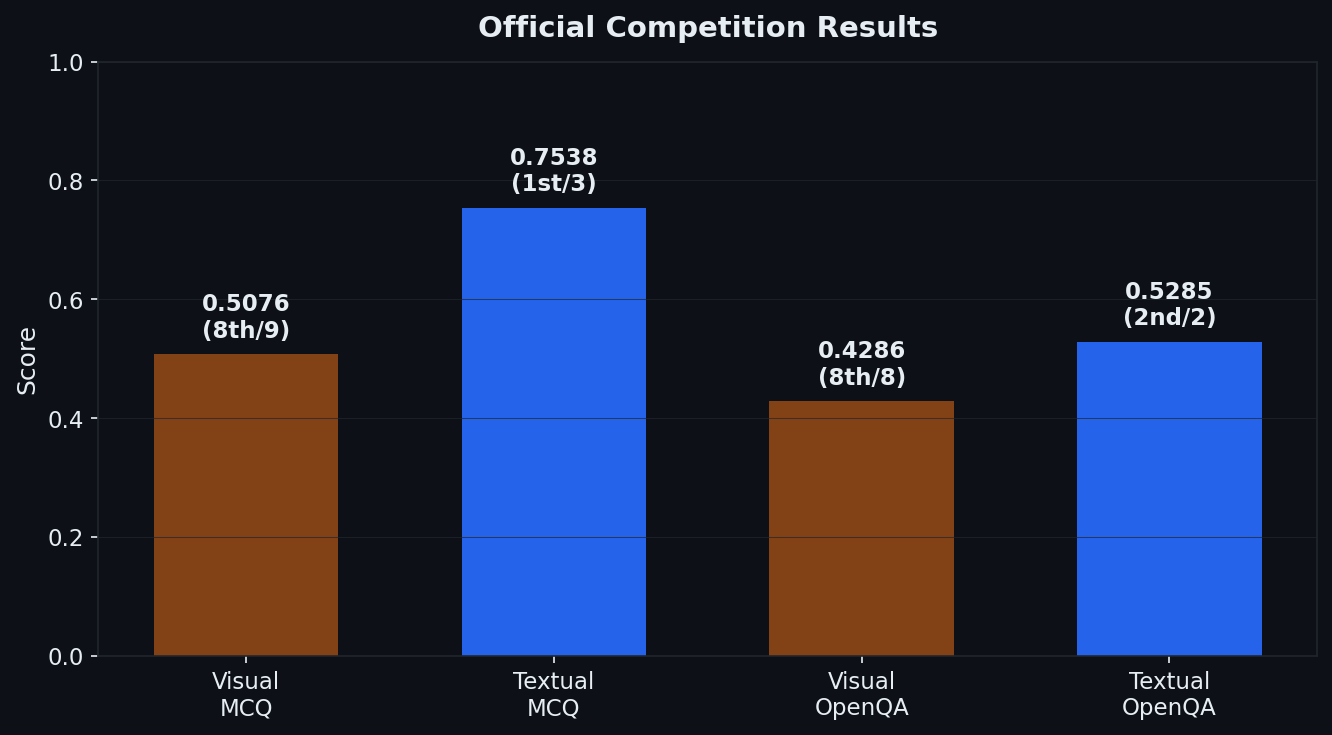
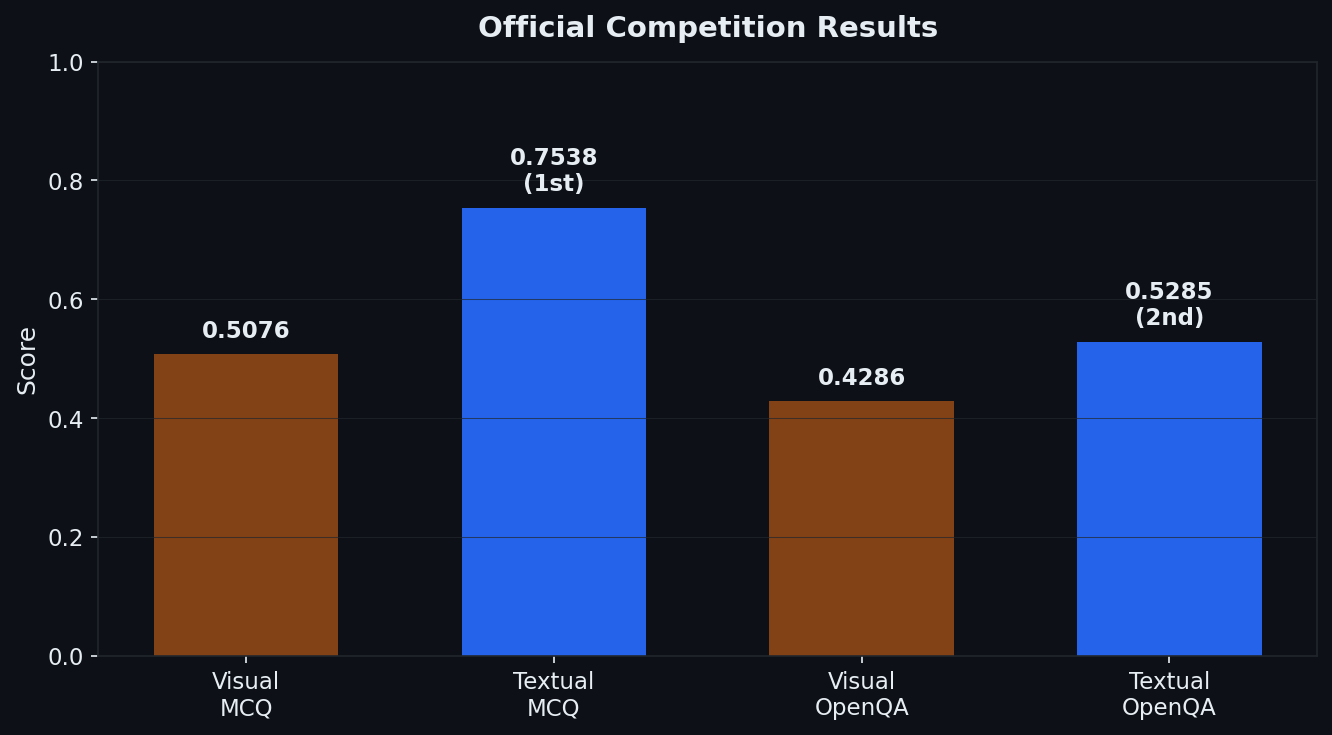
Remove field sizes from ranks, show only 1st/2nd

diff --git a/src/generate_figures.py b/src/generate_figures.py
@@ -66,7 +66,7 @@ print("Saved per_language_accuracy.png")
 # ── Figure 2: Track Results Overview ──────────────────────────
 tracks = ["Visual\nMCQ", "Textual\nMCQ", "Visual\nOpenQA", "Textual\nOpenQA"]
 scores = [0.5076, 0.7538, 0.4286, 0.5285]
-ranks = ["8th/9", "1st/3", "8th/8", "2nd/2"]
+labels = ["0.5076", "0.7538\n(1st)", "0.4286", "0.5285\n(2nd)"]
 colors = [ORANGE, BLUE, ORANGE, BLUE]
 
 fig, ax = plt.subplots(figsize=(9, 5))
@@ -74,9 +74,9 @@ bars = ax.bar(tracks, scores, color=colors, edgecolor="none", width=0.6)
 bars[0].set_alpha(0.5)
 bars[2].set_alpha(0.5)
 
-for bar, rank, score in zip(bars, ranks, scores):
+for bar, label in zip(bars, labels):
     ax.text(bar.get_x() + bar.get_width()/2, bar.get_height() + 0.02,
-            f"{score:.4f}\n({rank})", ha="center", va="bottom", color=TEXT,
+            label, ha="center", va="bottom", color=TEXT,
             fontsize=11, fontweight="bold")
 
 ax.set_ylabel("Score", fontsize=12)

diff --git a/README.md b/README.md
@@ -34,10 +34,10 @@
 
 | Track | Type | Metric | Score | Rank |
 |:------|:-----|:-------|:-----:|:----:|
-| **Textual MCQ** | Multiple-choice (text) | Accuracy | **0.7538** | **1st / 3** |
-| **Textual OpenQA** | Open-ended (text) | COMET | **0.5285** | **2nd / 2** |
-| Visual MCQ | Multiple-choice (visual) | Accuracy | 0.5076 | 8th / 9 |
-| Visual OpenQA | Open-ended (visual) | COMET | 0.4286 | 8th / 8 |
+| **Textual MCQ** | Multiple-choice (text) | Accuracy | **0.7538** | **1st** |
+| **Textual OpenQA** | Open-ended (text) | COMET | **0.5285** | **2nd** |
+| Visual MCQ | Multiple-choice (visual) | Accuracy | 0.5076 | — |
+| Visual OpenQA | Open-ended (visual) | COMET | 0.4286 | — |
 
 ---
 